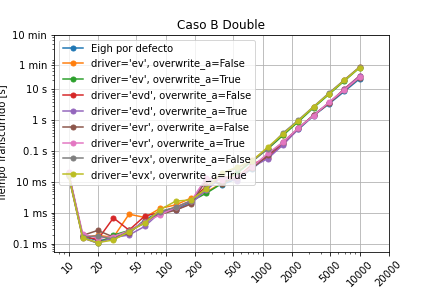
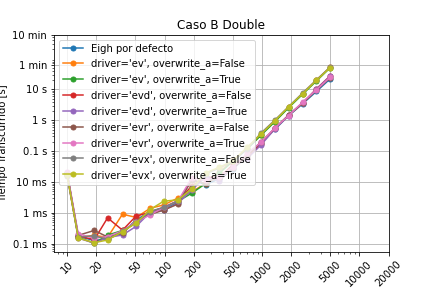
READY

diff --git a/plots_E4.py b/plots_E4.py
@@ -582,17 +582,9 @@ diccionario["B_double"].close()
 
 
 
-
 N0 = [10, 20, 50, 100, 200, 500, 1000, 2000, 5000, 10000, 20000]
-
 dt_label = ["0.1 ms", "1 ms", "10 ms", "0.1 s", "1 s", "10 s", "1 min", "10 min"]
 dt0 = [0.0001, 0.001, 0.01, 0.1, 1, 10, 60, 600]
-
-mem_label = ["1 KB", "10 KB", "100 KB", "1 MB", "10 MB", "100 MB", "1 GB", "10 GB"]
-mem0 = [1000, 10000, 100000, 1000000, 10000000, 100000000, 1000000000, 10000000000]
-
-
-
 
 
 plt.title("Caso A Float")
@@ -636,15 +628,15 @@ plt.show()
 
 
 plt.title("Caso B Float")
-plt.loglog(Ns_A[0],dts_B1_float, marker="o", markersize=5)
-plt.loglog(Ns_A[0],dts_B2_float, marker="o", markersize=5)
-plt.loglog(Ns_A[0],dts_B3_float, marker="o", markersize=5)
-plt.loglog(Ns_A[0],dts_B4_float, marker="o", markersize=5)
-plt.loglog(Ns_A[0],dts_B5_float, marker="o", markersize=5)
-plt.loglog(Ns_A[0],dts_B6_float, marker="o", markersize=5)
-plt.loglog(Ns_A[0],dts_B7_float, marker="o", markersize=5)
-plt.loglog(Ns_A[0],dts_B8_float, marker="o", markersize=5)
-plt.loglog(Ns_A[0],dts_B9_float, marker="o", markersize=5)
+plt.loglog(Ns_B[0],dts_B1_float, marker="o", markersize=5)
+plt.loglog(Ns_B[0],dts_B2_float, marker="o", markersize=5)
+plt.loglog(Ns_B[0],dts_B3_float, marker="o", markersize=5)
+plt.loglog(Ns_B[0],dts_B4_float, marker="o", markersize=5)
+plt.loglog(Ns_B[0],dts_B5_float, marker="o", markersize=5)
+plt.loglog(Ns_B[0],dts_B6_float, marker="o", markersize=5)
+plt.loglog(Ns_B[0],dts_B7_float, marker="o", markersize=5)
+plt.loglog(Ns_B[0],dts_B8_float, marker="o", markersize=5)
+plt.loglog(Ns_B[0],dts_B9_float, marker="o", markersize=5)
 plt.autoscale(True,True,True)
 plt.ylabel("Tiempo Transcurrido [s]")
 plt.yticks(dt0, dt_label)
@@ -658,15 +650,15 @@ plt.show()
 
 
 plt.title("Caso B Double")
-plt.loglog(Ns_A[0],dts_B1_double, marker="o", markersize=5)
-plt.loglog(Ns_A[0],dts_B2_double, marker="o", markersize=5)
-plt.loglog(Ns_A[0],dts_B3_double, marker="o", markersize=5)
-plt.loglog(Ns_A[0],dts_B4_double, marker="o", markersize=5)
-plt.loglog(Ns_A[0],dts_B5_double, marker="o", markersize=5)
-plt.loglog(Ns_A[0],dts_B6_double, marker="o", markersize=5)
-plt.loglog(Ns_A[0],dts_B7_double, marker="o", markersize=5)
-plt.loglog(Ns_A[0],dts_B8_double, marker="o", markersize=5)
-plt.loglog(Ns_A[0],dts_B9_double, marker="o", markersize=5)
+plt.loglog(Ns_B[0],dts_B1_double, marker="o", markersize=5)
+plt.loglog(Ns_B[0],dts_B2_double, marker="o", markersize=5)
+plt.loglog(Ns_B[0],dts_B3_double, marker="o", markersize=5)
+plt.loglog(Ns_B[0],dts_B4_double, marker="o", markersize=5)
+plt.loglog(Ns_B[0],dts_B5_double, marker="o", markersize=5)
+plt.loglog(Ns_B[0],dts_B6_double, marker="o", markersize=5)
+plt.loglog(Ns_B[0],dts_B7_double, marker="o", markersize=5)
+plt.loglog(Ns_B[0],dts_B8_double, marker="o", markersize=5)
+plt.loglog(Ns_B[0],dts_B9_double, marker="o", markersize=5)
 plt.autoscale(True,True,True)
 plt.ylabel("Tiempo Transcurrido [s]")
 plt.yticks(dt0, dt_label)

diff --git a/README.md b/README.md
@@ -124,3 +124,27 @@ Tras realizar una investigación en internet, se llegó a que numpy llama a nump
 
 Observando los gráficos, se ve que el half toma menos tiempo en invertir la matriz, dado que tiene datos más pequeños que los single, double y longdouble. Estos cambios en el tiempo entre estos tipos es debido al paralelismo, en donde el procesador ejecuta varias tareas al mismo tiempo, realizando varios cálculos simultáneamente. Mirando el uso de memoria durante la ejecución del código, este oscilaba entre 60% y 65%, lo cual es relativamente bajo considerando las tareas que se estaban realizando, lo cual, nuevamente es debido al paralelismo y a la memoria caché. Además, los núcleos 2 y 4, los cuales se ven en la imagen de actividad del procesador, tienen menos dificultad durante la ejecución, dado que se ve menos actividad, lo cual tiene que ver con lo mencionado.
 
+
+
+# P0E4: Desempeño de SOLVE y EIGH
+
+Se realizan dos procedimientos: "A" corresponde a la resolución de un sistema de ecuaciones con el solve de scipy y "B" a la obtención de valores y vectores propios de una matriz con eigh de scipy. Cada uno se desarrolla con diferentes casos de solve y eigh y con dos tipos de datos (float y double) y se mide el tiempo que demora el computador en ejecutar dichos cálculos. Los resultados son graficados y se presentan a continuación.  
+
+![Caso A Float](https://github.com/GeoChammas/MCOC2021-P0/blob/main/Caso%20A%20Float.png)
+
+![Caso A Double](https://github.com/GeoChammas/MCOC2021-P0/blob/main/Caso%20A%20Double.png)
+
+![Caso B Float](https://github.com/GeoChammas/MCOC2021-P0/blob/main/Caso%20B%20Float.png)
+
+![Caso B Double](https://github.com/GeoChammas/MCOC2021-P0/blob/main/Caso%20B%20Double.png)
+
+Además, se encuentra el porcentaje de memoria que fue usado durante las corridas, lo cual siempre se encontraba entre el 60% y 65%, y también la actividad del procesador que fue relativamente constante en todas las corridas realizadas.
+
+
+![Memoria_E4](https://github.com/GeoChammas/MCOC2021-P0/blob/main/Memoria_E4.png)
+
+![Procesador_E4](https://github.com/GeoChammas/MCOC2021-P0/blob/main/Procesador_E4.png)
+
+## Comentarios:
+
+
